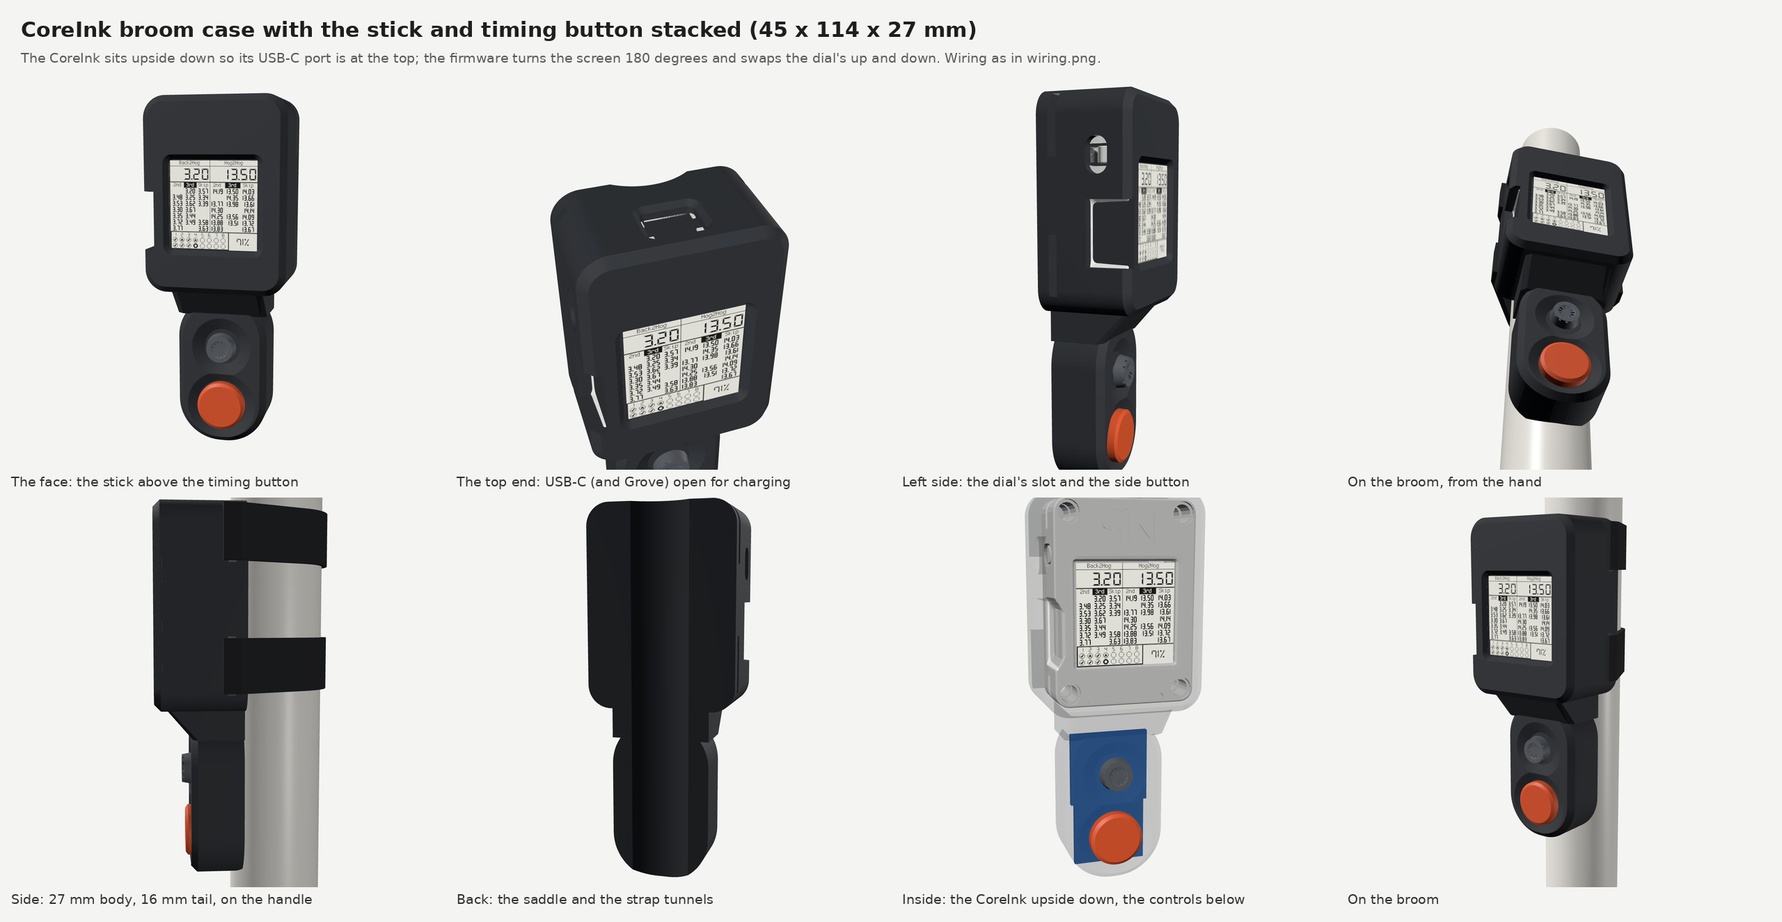
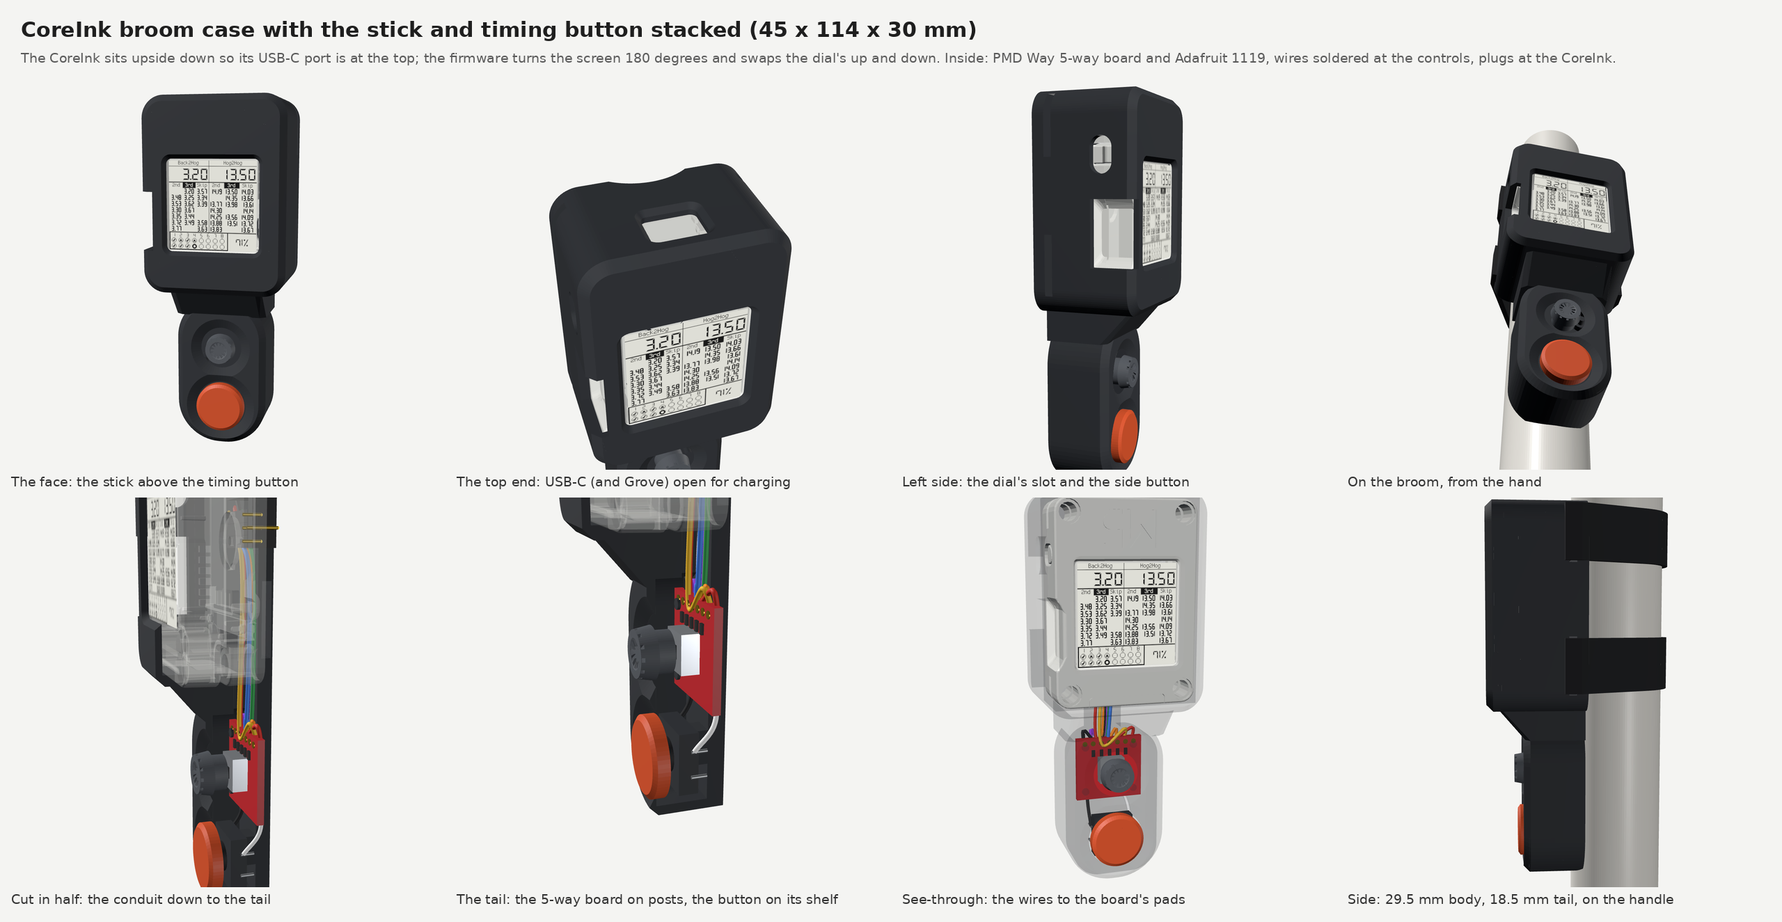
CoreInk controls case: the inside, with the conduit, the 5-way board and the button
The CoreInk sits on a solid back hollowed only for the right-angle header and
its plugs; a conduit runs from there through the shoulder into the tail. PMD
Way's 5-way breakout sits on four posts (pads toward the conduit, wires
soldered from behind), the Adafruit 1119 on a shelf. The back thickens to 6.5
mm so the strap tunnels pass under the wiring, the tail to 18.5 mm: 45 x 114 x
29.5 mm. New cutaway and see-through views with the parts and wires.

Claude-Session: https://claude.ai/code/session_01YA9zoncxe9XeMCwR12hQbC

diff --git a/hardware/coreink-controls/render/case.html b/hardware/coreink-controls/render/case.html
@@ -23,20 +23,70 @@ const load = (f) => new Promise((ok, bad) => loader.load(f, g => { g.computeVert
 const mat = (color, extra = {}) => new THREE.MeshStandardMaterial({ color, roughness: 0.7, ...extra });
 const g = new THREE.Group(); scene.add(g);
 const add = async (file, material) => { const m = new THREE.Mesh(await load(file), material); g.add(m); return m; };
-const xray = view === 'xray';
-await add('model-case-body.stl', mat(0x2b2e33, xray ? { roughness: 0.8, transparent: true, opacity: 0.25, depthWrite: false } : { roughness: 0.8 }));
+const xray = view === 'xray', cut = view.startsWith('cut');
+const shellMat = xray ? mat(0x2b2e33, { roughness: 0.8, transparent: true, opacity: 0.22, depthWrite: false })
+                      : mat(0x2b2e33, { roughness: 0.8, side: THREE.DoubleSide });
+await add(cut ? 'model-case-cut.stl' : 'model-case-body.stl', shellMat);
 await add('model-case-stick.stl', mat(0x55595f, { roughness: 0.6 }));
 await add('model-case-button.stl', mat(0xd9542b, { roughness: 0.5 }));
 // the CoreInk, turned over
 const dev = await load('model-coreink.stl');
 dev.translate(-2.5, -2.5, -2.5); dev.rotateZ(Math.PI); dev.translate(C.device.w + C.device.x0, C.device.h + C.device.y0, C.device.z0);
-g.add(new THREE.Mesh(dev, mat(0xe9e9e4, { roughness: 0.5 })));
+const devMesh = new THREE.Mesh(dev, mat(0xe9e9e4, { roughness: 0.5, ...(cut ? { transparent: true, opacity: 0.35, depthWrite: false } : {}) }));
+g.add(devMesh);
 const tex = await new THREE.TextureLoader().loadAsync('screen.png'); tex.colorSpace = THREE.SRGBColorSpace;
 const scr = new THREE.Mesh(new THREE.PlaneGeometry(27.6, 27.6), new THREE.MeshBasicMaterial({ map: tex }));
 scr.position.set(...C.screen); g.add(scr);           // upright: the firmware turns the picture over
-if (xray) {   // the controls' boards in the tail
-  const board = (w, h, y) => { const m = new THREE.Mesh(new THREE.BoxGeometry(w, h, 1.6), mat(0x1f5fa8)); m.position.set(C.W / 2, y, C.tail.t - 8); g.add(m); };
-  board(24, 22, C.tail.stick_y); board(22, 20, C.tail.button_y);
+
+// --- the parts inside: the header and its plugs, the wires down the conduit, the 5-way board, the switch
+if (xray || cut) {
+  const I = C.inside, gold = { metalness: 0.8, roughness: 0.3 };
+  const box = (w, h, d, color, x, y, z, extra = {}) => { const m = new THREE.Mesh(new THREE.BoxGeometry(w, h, d), mat(color, extra)); m.position.set(x, y, z); g.add(m); return m; };
+  const rod = (a, b, r, color, extra = {}) => {
+    const A = new THREE.Vector3(...a), B = new THREE.Vector3(...b), len = A.distanceTo(B);
+    const m = new THREE.Mesh(new THREE.CylinderGeometry(r, r, len, 16), mat(color, extra));
+    m.position.copy(A.clone().add(B).multiplyScalar(0.5));
+    m.quaternion.setFromUnitVectors(new THREE.Vector3(0, 1, 0), B.clone().sub(A).normalize()); g.add(m); return m;
+  };
+  const H_ = I.header, zb = H_.z_back;
+  const ys = H_.pins.map(p => p.y);
+  box(H_.body_x[1] - H_.body_x[0], Math.max(...ys) - Math.min(...ys) + 2.54, 5.1, 0x1b1c1f,
+      (H_.body_x[0] + H_.body_x[1]) / 2, (Math.max(...ys) + Math.min(...ys)) / 2, zb - 2.55);
+  const colours = { gnd: 0x202124, vcc: 0xd93025, up: 0xf6c026, down: 0x34a853, left: 0x4285f4, right: 0xa142f4, centre: 0xff8c1a, time: 0xffffff };
+  const P = I.pmd, T_ = I.tact;
+  for (const pin of H_.pins) {
+    rod([pin.socket_x, pin.y, zb + 2.5], [pin.socket_x, pin.y, pin.z], 0.32, 0xd4af37, gold);       // leg, into the socket
+    rod([pin.socket_x, pin.y, pin.z], [H_.body_x[0], pin.y, pin.z], 0.32, 0xd4af37, gold);           // the bend
+    box(H_.plug_x[1] - H_.plug_x[0], 2.5, 2.5, 0x18191b, (H_.plug_x[0] + H_.plug_x[1]) / 2, pin.y, pin.z, { roughness: 0.8 });
+    // the wire: out of the plug, along the pocket, down the conduit, behind the board to its pad
+    const [ex, ey] = I.ends[pin.what];
+    const toTact = pin.what === 'time';
+    const endZ = toTact ? T_.z + 1.0 : P.z - 0.1;
+    const zw = I.wire_z + 0.4 + (pin.n % 4) * 0.7;
+    const pts = [[H_.plug_x[0], pin.y, pin.z], [H_.plug_x[0] - 3, pin.y - 0.5, zw + 1],
+                 [I.conduit_x - 1.5 + (pin.n % 5) * 0.8, Math.min(...ys) - 3, zw],
+                 [I.conduit_x - 1.5 + (pin.n % 5) * 0.8, I.shoulder - I.ramp - 4, zw],
+                 [ex, (toTact ? T_.y + 8 : ey + 4), zw], [ex, ey, endZ]];
+    const curve = new THREE.CatmullRomCurve3(pts.map(p => new THREE.Vector3(...p)), false, 'centripetal');
+    g.add(new THREE.Mesh(new THREE.TubeGeometry(curve, 120, 0.5, 10, false), mat(colours[pin.what], { roughness: 0.5 })));
+  }
+  // the button's ground: a short wire from the board's GND pad to the switch's other leg
+  const gp = I.ends.gnd, gl = T_.gnd_leg;
+  const link = new THREE.CatmullRomCurve3([[gp[0], gp[1], P.z - 0.1], [gp[0], gp[1] + 3, I.wire_z + 0.6], [gl[0], T_.y + 8, I.wire_z + 0.6], [gl[0], gl[1], T_.z + 1.0]]
+    .map(p => new THREE.Vector3(...p)), false, 'centripetal');
+  g.add(new THREE.Mesh(new THREE.TubeGeometry(link, 60, 0.5, 10, false), mat(0x202124)));
+  // the 5-way board (turned round: pads toward the CoreInk), its switch, stem and resistors
+  box(P.w, P.h, P.t, 0xc0262d, P.x, P.y, P.z + P.t / 2, { roughness: 0.5 });
+  box(P.switch[0], P.switch[0], P.switch[1], 0xb8bcc2, P.x, P.y, P.z + P.t + P.switch[1] / 2, { metalness: 0.6, roughness: 0.35 });
+  box(P.stem[0], P.stem[0], P.stem[1], 0x1b1c1f, P.x, P.y, P.z + P.t + P.switch[1] + P.stem[1] / 2);
+  for (let i = 0; i < 5; i++) box(1.0, 2.0, 0.5, 0x222222, P.x + (i - 2) * 2.54, P.y + P.h / 2 - 4.6, P.z + P.t + 0.25);
+  for (let i = 0; i < 7; i++) { const m = new THREE.Mesh(new THREE.CylinderGeometry(0.75, 0.75, 0.2, 16), mat(0xd4af37, gold)); m.rotation.x = Math.PI / 2; m.position.set(P.x + (i - 3) * 2.54, P.y + P.h / 2 - 1.6, P.z + P.t + 0.1); g.add(m); }
+  // the tactile switch on its shelf, its four legs
+  box(T_.size[0], T_.size[0], T_.size[1], 0x2b2e33, T_.x, T_.y, T_.z + T_.size[1] / 2);
+  const act = new THREE.Mesh(new THREE.CylinderGeometry(3.4, 3.4, T_.size[2], 24), mat(0x1b1c1f)); act.rotation.x = Math.PI / 2;
+  act.position.set(T_.x, T_.y, T_.z + T_.size[1] + T_.size[2] / 2); g.add(act);
+  for (const sx of [-1, 1]) for (const sy of [-1, 1])
+    rod([T_.x + sx * (T_.size[0] / 2 + 0.3), T_.y + sy * 2.5, T_.z + 1.5], [T_.x + sx * (T_.size[0] / 2 + 0.3), T_.y + sy * 2.5, T_.z - 1.5], 0.35, 0xc0c4c8, gold);
 }
 if (view.startsWith('broom') || view === 'side') {
   await add('model-case-handle.stl', mat(0xe9e6df, { roughness: 0.4 }));
@@ -53,6 +103,8 @@ const views = {
   'broom-hand': [[-40, -190, 170], [0, 5, -6]],
   back: [[-60, 30, -220], [0, 0, -4]],
   xray: [[-60, 40, 200], [0, 0, 0]],
+  cut: [[150, 25, 45], [0, -6, 0]],
+  'cut-tail': [[120, 10, 40], [0, -32, 0]],
 };
 const [pos, look] = views[view] || views.front;
 const cam = new THREE.PerspectiveCamera(30, W / H, 1, 3000);

diff --git a/hardware/coreink-controls/case.py b/hardware/coreink-controls/case.py
@@ -26,7 +26,7 @@ SEG = 64
 # ------------------------------------------------------------------ the CoreInk, turned over
 DEV_W, DEV_H, DEV_T = CI["body"]["width"], CI["body"]["height"], CI["body"]["depth"]   # 40 x 56 x 16
 FIT, WALL = 0.2, 2.5
-BACK = 4.0            # the back under the CoreInk's wiring: the saddle and the strap tunnels
+BACK = 6.5            # the back under the CoreInk's wiring: the saddle, and the strap tunnels under the wiring
 WIRING = 5.5          # room behind the CoreInk for the right-angle header and its plugs
 LIP = 1.5             # the front frame over the CoreInk's face
 EDGE = 2.0            # the front edge's rounding
@@ -37,7 +37,8 @@ DEV_X0 = WALL + FIT                    # the CoreInk's left edge (as the case is
 DEV_Z0 = BACK + WIRING                 # its back face
 
 # ------------------------------------------------------------------ the tail: the stick above the button
-TAIL_W, TAIL_T = 30.0, 16.0            # as wide as the handle (about 29 mm); thinner than the body
+TAIL_W, TAIL_T = 30.0, 18.5            # as wide as the handle (about 29 mm); thinner than the body
+SKIN = 1.6                             # the tail's front wall
 STICK_KNOB, BUTTON = 10.0, 16.0
 RAMP = 9.0                             # the face slopes down from the body to the tail over this length
 STICK_Y = 13.0 + 10.0 + 2.0 + 8.0      # from the tail's bottom: margin, button well, gap, stick well
@@ -48,8 +49,31 @@ H = DEV_Y0 + DEV_H + FIT + WALL
 
 HANDLE_R, SADDLE_DEPTH = 14.3, 3.0     # 1 1/8" handle (28.6 mm)
 STRAP_W = 16.0
-TUNNEL_Z = (SADDLE_DEPTH + 0.4, SADDLE_DEPTH + 0.4 + 2.4)
+TUNNEL_Z = (SADDLE_DEPTH + 0.4, SADDLE_DEPTH + 0.4 + 2.2)
 TUNNEL_YS = (DEV_Y0 + 11.0, DEV_Y0 + 49.0)
+
+
+# ------------------------------------------------------------------ the parts inside
+# The right-angle header in the CoreInk's back socket (window x 3.5-8.75, y 8.75-29.75 in its own
+# coordinates): its legs in the socket's two columns, its body beside the window, the bent pins and the
+# jumper plugs on them lying across the back toward the middle. Socket pin n: column n odd/even, position
+# (n - 1) // 2 along the socket; the 8 pins not used are snipped off.
+SOCKET_COLS = (4.855, 7.395)
+HEADER_BODY = (9.0, 11.5)              # its x span, CoreInk coordinates
+PLUG_LEN = 14.0
+ROW_Z = {1: -3.81, 0: -1.27}           # below the CoreInk's back: odd pins in the far row, even in the near
+PINS = {1: "gnd", 6: "vcc", 7: "up", 8: "down", 14: "left", 12: "right", 13: "centre", 16: "time"}
+# PMD Way's 5-way breakout (SparkFun's design): about 20.3 x 19 x 1.6, the switch in the middle, a row of 7
+# pads (+ U C L D R -) along one edge. It is mounted turned round, the pads toward the CoreInk; the firmware
+# maps the directions back. Wires are soldered to the pads from behind.
+PMD_W, PMD_H, PMD_T = 20.3, 19.0, 1.6
+PMD_PADS = ("-", "R", "D", "L", "C", "U", "+")     # left to right, as seen from the front, turned round
+PMD_Z = BACK + 2.0                     # the board stands on posts, the wires under it
+SWITCH = (7.5, 3.5)                    # the 5-way switch body's side and height
+STEM = (2.6, 3.5)
+# Adafruit 1119: a 12 mm tactile switch, 6 mm tall with its actuator; its legs at the corners.
+TACT = (12.0, 3.8, 2.2)                # body side, body height, actuator height
+TACT_Z = TAIL_T - SKIN - TACT[1] - TACT[2]           # on a shelf; its actuator meets the cap
 
 
 def dev(x, y):
@@ -111,11 +135,58 @@ def body():
     tunnels = [Manifold.cube((W + 2, STRAP_W + 1, TUNNEL_Z[1] - TUNNEL_Z[0])).translate((-1, y - (STRAP_W + 1) / 2, TUNNEL_Z[0]))
                for y in TUNNEL_YS]
     cut = window + port + port_bevel + dial + power + wells[0] + wells[1] + saddle + tunnels[0] + tunnels[1]
-    return shell - cut
+    return shell - cut - inside() + mounts()
+
+
+def header_box():
+    """The pocket behind the CoreInk for the header and its plugs, in case coordinates (x0, x1, y0, y1)."""
+    ys = [DEV_Y0 + DEV_H - pin_y(n) for n in PINS]
+    x0 = DEV_X0 + DEV_W - (HEADER_BODY[1] + 0.6 + PLUG_LEN) - 1.0
+    x1 = DEV_X0 + DEV_W - SOCKET_COLS[0] + 1.5
+    return x0, x1, min(ys) - 2.5, max(ys) + 2.5
+
+
+def pin_y(n):
+    return 19.25 + ((n - 1) // 2 - 3.5) * 2.54
+
+
+def inside():
+    """What is hollow: the CoreInk's pocket, the header's pocket behind it, the conduit down through the
+    shoulder, and the tail's inside."""
+    pocket = Manifold.cube((DEV_W + 2 * FIT, DEV_H + 2 * FIT, DEV_T + 0.01)).translate((DEV_X0 - FIT, DEV_Y0 - FIT, DEV_Z0))
+    x0, x1, y0, y1 = header_box()
+    header = Manifold.cube((x1 - x0, y1 - y0, WIRING + 0.01)).translate((x0, y0, BACK))
+    conduit_top = y0 + 4.0
+    conduit = Manifold.cube((10.0, conduit_top - (SHOULDER - RAMP - 2.0), WIRING + 0.01)).translate(
+        (W / 2 - 7.0, SHOULDER - RAMP - 2.0, BACK))
+    # the conduit's turn into the header pocket
+    turn = Manifold.cube((W / 2 + 3.0 - x0, 6.0, WIRING + 0.01)).translate((x0, y0, BACK))
+    tail = (rounded_rect(TAIL_W - 4.0, SHOULDER - RAMP, 8.0, W / 2, (SHOULDER - RAMP) / 2 + 2.0)
+            .extrude(TAIL_T - SKIN - BACK).translate((0, 0, BACK)))
+    holes = (Manifold.cylinder(TAIL_T, 6.2, circular_segments=SEG).translate((W / 2, STICK_Y, BACK))
+             + Manifold.cylinder(TAIL_T, BUTTON / 2 + 0.4, circular_segments=SEG).translate((W / 2, BUTTON_Y, BACK)))
+    return pocket + header + conduit + turn + tail + holes
+
+
+def mounts():
+    """Four posts with pegs for the 5-way board's corner holes, and a shelf under the tactile switch."""
+    m = None
+    for sx in (-1, 1):
+        for sy in (-1, 1):
+            x, y = W / 2 + sx * (PMD_W / 2 - 2.6), STICK_Y + sy * (PMD_H / 2 - 2.6)
+            post = (Manifold.cylinder(PMD_Z - BACK, 2.2, circular_segments=SEG).translate((x, y, BACK - 0.01))
+                    + Manifold.cylinder(PMD_T + 0.6, 1.1, circular_segments=SEG).translate((x, y, PMD_Z - 0.01)))
+            m = post if m is None else m + post
+    shelf = Manifold.cube((TACT[0] - 1.0, TACT[0] - 5.0, TACT_Z - BACK + 0.01)).translate(
+        (W / 2 - (TACT[0] - 1.0) / 2, BUTTON_Y - (TACT[0] - 5.0) / 2, BACK - 0.01))
+    return m + shelf
 
 
 def stick():
-    post = Manifold.cylinder(2.0, 2.2, circular_segments=SEG).translate((W / 2, STICK_Y, TAIL_T - 2.2))
+    """The printed cap on the 5-way switch's stem: a skirt down through the hole, the knob above."""
+    stem_top = PMD_Z + PMD_T + SWITCH[1] + STEM[1]
+    post = (Manifold.cylinder(TAIL_T - (stem_top - 2.5), 4.0, circular_segments=SEG).translate((W / 2, STICK_Y, stem_top - 2.5))
+            - Manifold.cube((STEM[0] + 0.2, STEM[0] + 0.2, 2.6), center=True).translate((W / 2, STICK_Y, stem_top - 1.2)))
     cap = Manifold.cylinder(3.2, STICK_KNOB / 2, STICK_KNOB / 2 - 0.6, circular_segments=SEG).translate((W / 2, STICK_Y, TAIL_T - 0.6))
     dish = Manifold.sphere(9, circular_segments=SEG).translate((W / 2, STICK_Y, TAIL_T + 2.6 + 9 - 0.5))
     knob = cap - dish
@@ -150,6 +221,29 @@ def strap():
     return parts[0] + parts[1]
 
 
+def inside_parts():
+    """Positions of the parts inside, for the render (case coordinates)."""
+    dx = lambda x: DEV_X0 + DEV_W - x   # noqa: E731  (the CoreInk is turned over)
+    pins = []
+    for n, what in PINS.items():
+        row = n % 2
+        pins.append(dict(n=n, what=what, y=DEV_Y0 + DEV_H - pin_y(n), z=DEV_Z0 + ROW_Z[row],
+                         socket_x=dx(SOCKET_COLS[0] if row else SOCKET_COLS[1])))
+    pads = {name: W / 2 + (i - 3) * 2.54 for i, name in enumerate(PMD_PADS)}
+    pad_y = STICK_Y + PMD_H / 2 - 1.6
+    ends = {"gnd": (pads["-"], pad_y), "vcc": (pads["+"], pad_y), "up": (pads["U"], pad_y), "down": (pads["D"], pad_y),
+            "left": (pads["L"], pad_y), "right": (pads["R"], pad_y), "centre": (pads["C"], pad_y),
+            "time": (W / 2 + TACT[0] / 2 + 0.3, BUTTON_Y + 2.5)}
+    return dict(
+        header=dict(body_x=[dx(HEADER_BODY[1]), dx(HEADER_BODY[0])], plug_x=[dx(HEADER_BODY[1] + 0.6 + PLUG_LEN), dx(HEADER_BODY[1] + 0.6)],
+                    z_back=DEV_Z0, pins=pins),
+        ends={k: [x, y] for k, (x, y) in ends.items()},
+        conduit_x=W / 2 - 2.0, wire_z=BACK + 1.0,
+        pmd=dict(x=W / 2, y=STICK_Y, z=PMD_Z, w=PMD_W, h=PMD_H, t=PMD_T, switch=list(SWITCH), stem=list(STEM)),
+        tact=dict(x=W / 2, y=BUTTON_Y, z=TACT_Z, size=list(TACT), gnd_leg=[W / 2 - TACT[0] / 2 - 0.3, BUTTON_Y + 2.5]),
+        shoulder=SHOULDER, ramp=RAMP)
+
+
 def save(m, name):
     mesh = m.to_mesh()
     trimesh.Trimesh(vertices=np.asarray(mesh.vert_properties)[:, :3], faces=np.asarray(mesh.tri_verts)).export(OUT / f"model-case-{name}.stl")
@@ -157,12 +251,16 @@ def save(m, name):
 
 if __name__ == "__main__":
     OUT.mkdir(exist_ok=True)
-    for name, part in (("body", body()), ("stick", stick()), ("button", button()), ("handle", handle()), ("strap", strap())):
+    b = body()
+    half = Manifold.cube((W / 2 + 0.3, H + 10, T + 10)).translate((-1, -5, -5))   # the left half, cut through the conduit
+    for name, part in (("body", b), ("cut", b ^ half), ("stick", stick()), ("button", button()), ("handle", handle()),
+                       ("strap", strap())):
         save(part, name)
     sx, sy = dev(*CI["front"]["screen_window_centre"])
     (OUT / "case.json").write_text(json.dumps(dict(
         W=W, H=H, T=T, screen=[sx, sy, DEV_Z0 + DEV_T + 0.05],
         # the CoreInk model (its own coordinates, offset 2.5 in M5Stack's file) turned over and placed
         device=dict(x0=DEV_X0, y0=DEV_Y0, z0=DEV_Z0, w=DEV_W, h=DEV_H),
-        tail=dict(stick_y=STICK_Y, button_y=BUTTON_Y, t=TAIL_T)), indent=1))
+        tail=dict(stick_y=STICK_Y, button_y=BUTTON_Y, t=TAIL_T),
+        inside=inside_parts()), indent=1))
     print(f"case {W:.1f} x {H:.1f} x {T:.1f} mm (tail {TAIL_W:.0f} wide, {TAIL_T:.0f} thick)")

diff --git a/hardware/coreink-controls/render/sheet_case.py b/hardware/coreink-controls/render/sheet_case.py
@@ -12,10 +12,10 @@ VIEWS = [("front", "The face: the stick above the timing button"),
          ("top", "The top end: USB-C (and Grove) open for charging"),
          ("left", "Left side: the dial's slot and the side button"),
          ("broom-hand", "On the broom, from the hand"),
-         ("side", "Side: 27 mm body, 16 mm tail, on the handle"),
-         ("back", "Back: the saddle and the strap tunnels"),
-         ("xray", "Inside: the CoreInk upside down, the controls below"),
-         ("broom", "On the broom")]
+         ("cut", "Cut in half: the conduit down to the tail"),
+         ("cut-tail", "The tail: the 5-way board on posts, the button on its shelf"),
+         ("xray", "See-through: the wires to the board's pads"),
+         ("side", "Side: 29.5 mm body, 18.5 mm tail, on the handle")]
 ims = [Image.open(HERE / f"view-case-{v}.png").convert("RGB") for v, _ in VIEWS]
 w, h = ims[0].size[0] // 2, ims[0].size[1] // 2
 cols, cap = 4, 40
@@ -24,7 +24,7 @@ d = ImageDraw.Draw(s)
 d.text((30, 25), f"CoreInk broom case with the stick and timing button stacked ({C['W']:.0f} x {C['H']:.0f} x {C['T']:.0f} mm)",
        font=bold, fill=(30, 30, 30))
 d.text((30, 72), "The CoreInk sits upside down so its USB-C port is at the top; the firmware turns the screen 180 degrees "
-       "and swaps the dial's up and down. Wiring as in wiring.png.", font=reg, fill=(90, 90, 90))
+       "and swaps the dial's up and down. Inside: PMD Way 5-way board and Adafruit 1119, wires soldered at the controls, plugs at the CoreInk.", font=reg, fill=(90, 90, 90))
 for i, (im, (_, label)) in enumerate(zip(ims, VIEWS)):
     x, y = (i % cols) * w, 115 + (i // cols) * (h + cap)
     s.paste(im.resize((w, h), Image.LANCZOS), (x, y))

diff --git a/hardware/coreink-controls/README.md b/hardware/coreink-controls/README.md
@@ -49,11 +49,29 @@ node shoot.js && python3 sheet.py     # -> ../wiring.png
 
 ## The case (concept)
 
-`case.py` models a broom case round it: 45 x 114 x 27 mm, the stick and the timing button stacked in a
-30 mm tail (16 mm thick) below the CoreInk, the saddle on the back sitting on a 1 1/8" handle, a strap
-through two tunnels. The CoreInk sits **upside down**: its USB-C port (on its bottom edge) is then at the
-top of the case, open for charging, where the tail would otherwise cover it. The firmware turns the screen
-180 degrees and swaps the dial's up and down. The dial and the side button end up on the case's left
-side, both reachable; the top button ends up under the tail, covered (the stick and the new timing button
-take over). 27 mm thick: 4 for the saddle and tunnels, 5.5 for the wiring behind the CoreInk, its 16, and
-a 1.5 mm frame. Renders: `python3 case.py`, then in `render/` `node shoot-case.js && python3 sheet_case.py`.
+`case.py` models a broom case round it: **45 x 114 x 29.5 mm**, the stick and the timing button stacked
+in a 30 mm tail (18.5 mm thick) below the CoreInk, the saddle on the back sitting on a 1 1/8" handle, a
+strap through two tunnels under the wiring. The CoreInk sits **upside down**: its USB-C port (on its
+bottom edge) is then at the top of the case, open for charging, where the tail would otherwise cover it.
+The firmware turns the screen 180 degrees and swaps the dial's up and down. The dial and the side button
+end up on the case's left side, both reachable; the top button ends up under the tail, covered (the stick
+and the new timing button take over).
+
+Inside (the `cut`, `cut-tail` and `xray` views):
+
+- the CoreInk sits on a solid back, hollowed only where the right-angle header and its plugs are;
+- a **conduit** runs from there down through the shoulder into the tail;
+- **PMD Way's 5-way breakout** (20.3 x 19 mm, 10 kOhm pull-ups on board) sits on four posts with pegs
+  through its corner holes, turned round so its pads face the conduit (the firmware maps the directions
+  back); the wires are soldered to its pads from behind, no header on it;
+- the **Adafruit 1119** tactile switch sits on a shelf, two wires soldered to its legs;
+- printed caps: the stick's on the switch's stem, the 16 mm button's on the switch's actuator.
+
+Soldering: 7 pads on the 5-way board and 2 legs on the switch, 9 joints in all. The CoreInk end plugs
+in (jumper plugs on the right-angle header).
+
+Thickness, back to front: 6.5 (the saddle, and the strap tunnels under the wiring) + 5.5 (the header and
+its plugs) + 16 (the CoreInk) + 1.5 (the frame). Still to work out: how it opens (likely a back shell
+and a front frame screwed together at the CoreInk's back), and how the CoreInk is held.
+
+Renders: `python3 case.py`, then in `render/` `node shoot-case.js && python3 sheet_case.py`.

diff --git a/hardware/CONCEPTS.md b/hardware/CONCEPTS.md
@@ -4,7 +4,7 @@ Ideas explored but not decided. Each folder has its own README, model (code) and
 
 | Concept | Folder | Status |
 |---|---|---|
-| **CoreInk + 5-way stick + timing button**, no solder: a right-angle header in the CoreInk's back socket, short jumper leads; a broom case with the controls stacked in a tail, the CoreInk upside down so USB-C is open at the top (45 x 114 x 27 mm) | [`coreink-controls/`](coreink-controls/) (`wiring.png`, `case.png`) | **Parked for review.** Parts identified (Sullins PRPC040DBAN-M71RC header, a 5-way module with a VCC pin, a 12 mm button). Firmware not started, on purpose: turn the screen 180 degrees, swap the dial's up and down, add the stick (GPIO 13, 14, 26, 36, 34) and the timing button (GPIO 25). |
+| **CoreInk + 5-way stick + timing button**, no solder: a right-angle header in the CoreInk's back socket, short jumper leads; a broom case with the controls stacked in a tail, the CoreInk upside down so USB-C is open at the top (45 x 114 x 29.5 mm, PMD Way 5-way board and Adafruit 1119 inside) | [`coreink-controls/`](coreink-controls/) (`wiring.png`, `case.png`) | **Parked for review.** Parts identified (Sullins PRPC040DBAN-M71RC header, a 5-way module with a VCC pin, a 12 mm button). Firmware not started, on purpose: turn the screen 180 degrees, swap the dial's up and down, add the stick (GPIO 13, 14, 26, 36, 34) and the timing button (GPIO 25). |
 | **M5Stack PaperDIY** (4.7", 540 x 960) on the broom: the stick and timing button stacked in a 30 mm tail, USB-C and the power button under the shoulders (69 x 160 x 15 mm) | [`concept-266/`](concept-266/) (`concept-paperdiy.png`) | Parked. The kit has no buzzer or clock chip; its pins, power chip and dimensions are in that README. |
 | **2.66" e-paper** (296 x 152) on the broom, upright, controls stacked | [`concept-266/`](concept-266/) (`concept-portrait.png`) | Parked; superseded by the two above. |
 
